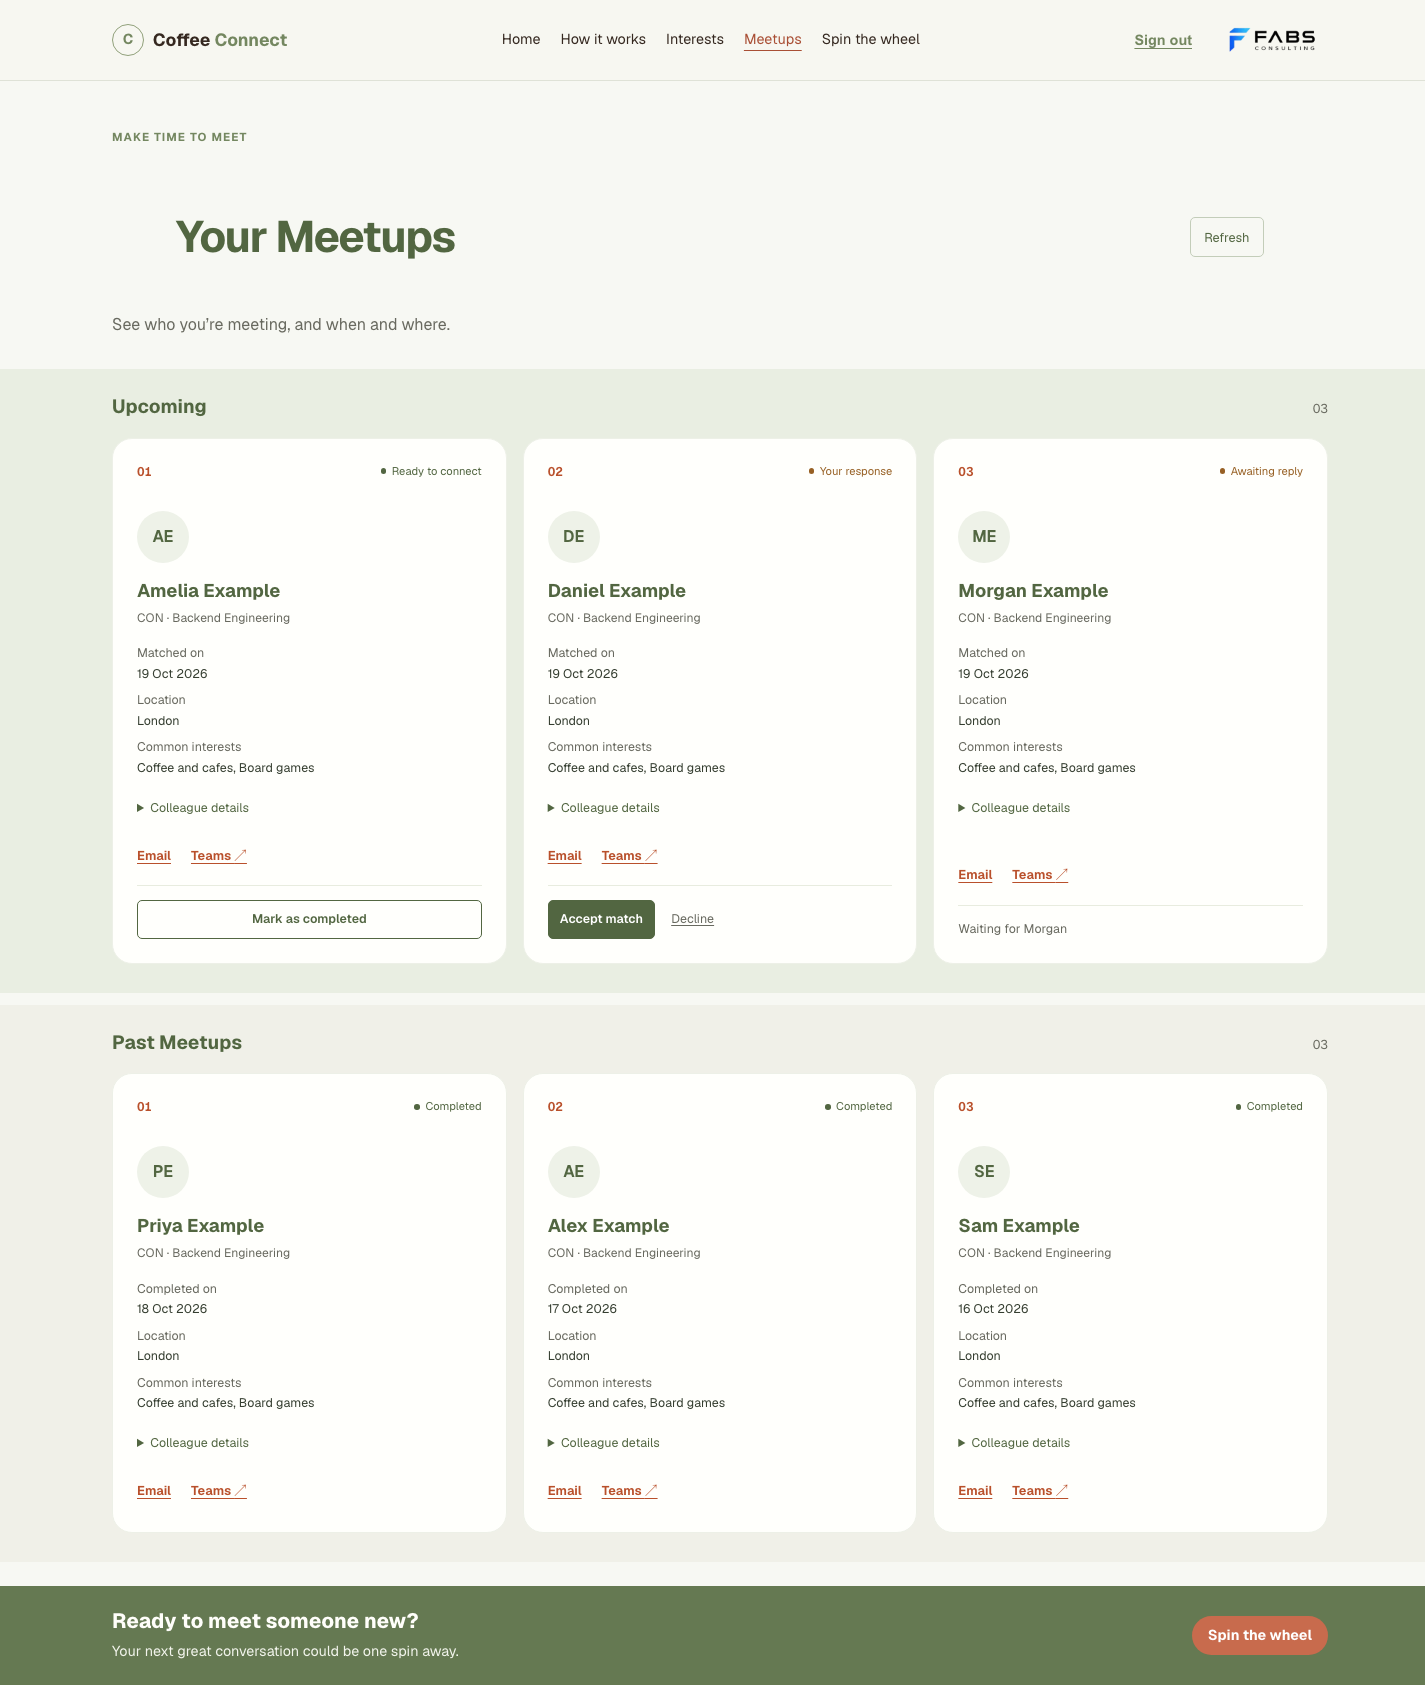
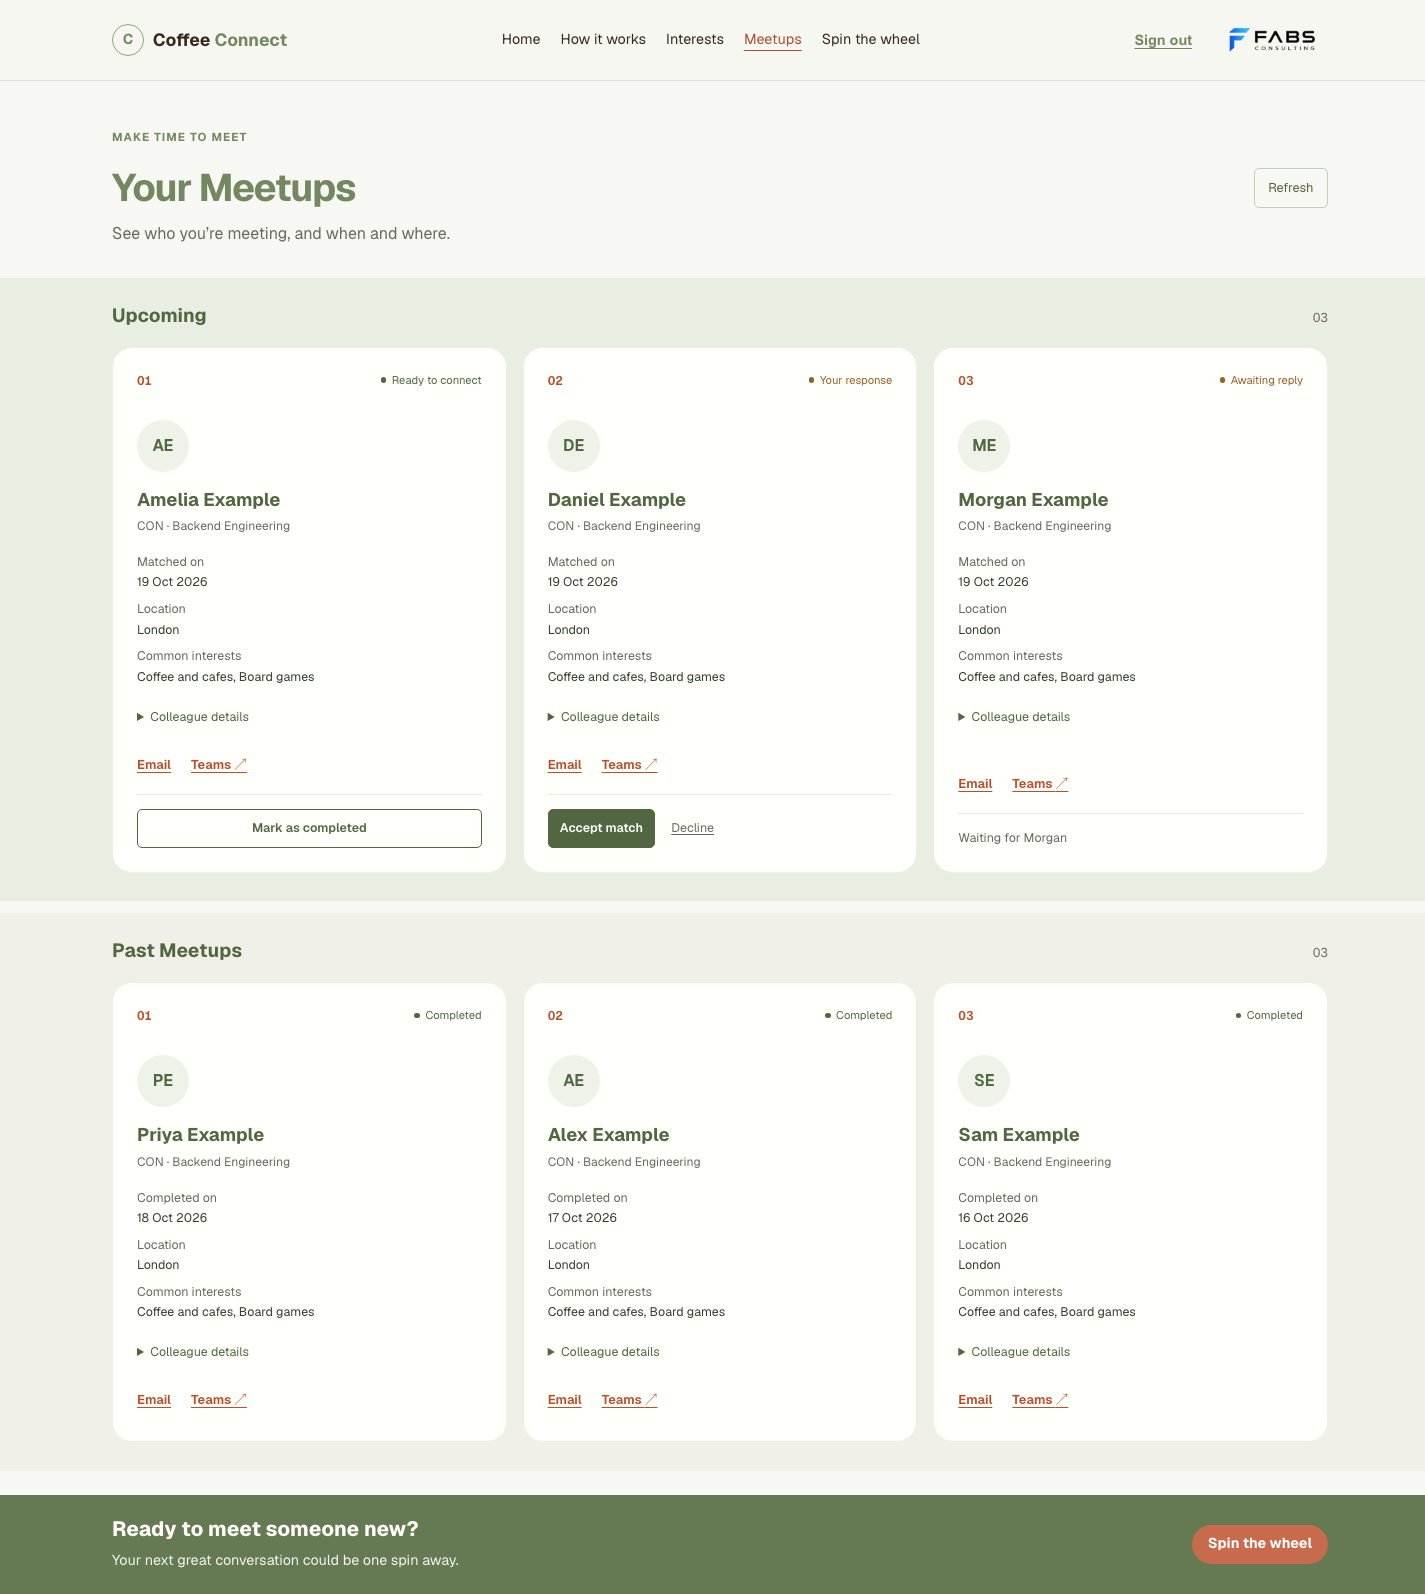
#21 Add users past call history: align meetups heading with shared site layout

diff --git a/src/app/meetups/meetups.module.css b/src/app/meetups/meetups.module.css
@@ -48,63 +48,11 @@
 
 .skipLink:focus { transform: translateY(0); }
 
-.headerInner,
-.titleRow,
-.sectionInner,
-.feedback,
-.ctaBand,
-.footer {
-  width: min(100% - 4rem, 68rem);
-  margin-inline: auto;
-}
-
-.headerInner {
-  display: flex;
-  align-items: center;
-  gap: 2rem;
-  min-height: 5.5rem;
-  border-bottom: 1px solid #e3e7db;
-}
-
-.brand {
-  margin-right: auto;
-  color: var(--sage-ink);
-  font-size: 1.15rem;
-  font-weight: 750;
-  text-decoration: none;
-}
-
-.nav { display: flex; flex-wrap: wrap; gap: 1.6rem; }
-.nav a { color: var(--sage-ink); font-size: 0.85rem; text-decoration: none; }
-.nav a[aria-current="page"] { color: var(--orange); font-weight: 700; }
-.nav a:hover { text-decoration: underline; text-underline-offset: 0.3em; }
-
-.sessionAction button {
-  min-height: 2.5rem;
-  padding: 0.5rem 1.25rem;
-  border: none;
-  border-radius: 999px;
-  color: #fff;
-  background: var(--sage-ink);
-  font-size: 0.8rem;
-  font-weight: 650;
-  text-decoration: none;
-}
-
 .titleRow {
   display: flex;
   align-items: center;
   justify-content: space-between;
   gap: 1rem;
-  padding-block: 3.25rem 2.75rem;
-}
-
-.titleRow h1 {
-  margin: 0;
-  color: var(--sage-ink);
-  font-size: 2.75rem;
-  font-weight: 700;
-  line-height: 1.2;
 }
 
 .refresh {
@@ -118,7 +66,7 @@
   font-size: 0.8rem !important;
 }
 
-.feedback:has(> *) { padding-bottom: 1.5rem; }
+.feedback:has(> *) { margin-top: 0.75rem; }
 .feedback { font-size: 0.9rem; }
 .feedback a { color: var(--orange); }
 .error { color: #9b351f; }
@@ -195,8 +143,7 @@
 
 .primaryButton { color: #fff; background: var(--sage-ink); }
 .completeButton { width: 100%; color: var(--sage-ink); background: transparent; }
-.primaryButton:hover:not(:disabled),
-.sessionAction button:hover { background: #405333; }
+.primaryButton:hover:not(:disabled) { background: #405333; }
 .completeButton:hover:not(:disabled) { background: #eef2e8; }
 .textButton { min-height: 2.4rem; padding: 0.4rem; border: none; color: var(--muted); background: transparent; font-size: 0.78rem !important; text-decoration: underline; text-underline-offset: 0.2em; }
 .confirmation p,
@@ -215,9 +162,5 @@
 }
 
 @media (max-width: 640px) {
-  .titleRow,
-  .feedback { width: 100%; }
-  .titleRow { padding-block: 2rem; }
-  .titleRow h1 { font-size: 2rem; }
   .avatar { margin-top: 1rem; }
 }
